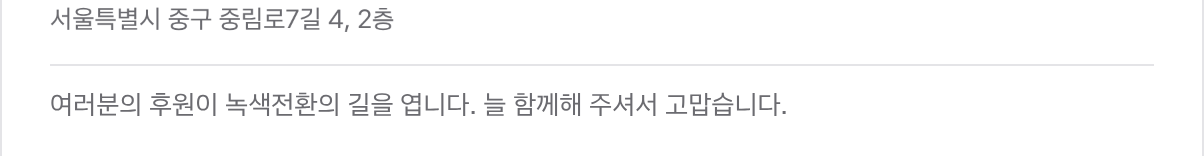
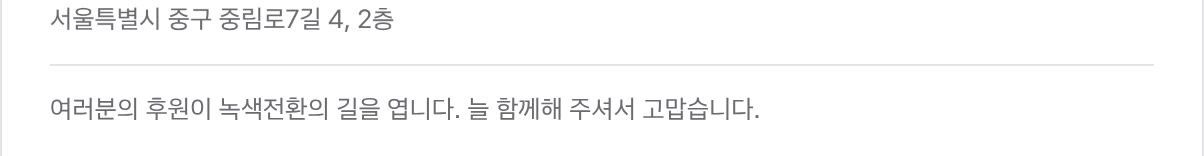
기관 메일 서명: 섹션 위 여백, 후원 감사 문구 크기·위치를 원래 문구와 맞춤
Claude-Session: https://claude.ai/code/session_01K576UY2xXgEjjuMEJ8cYE8

Changed region(s): [[0.0307, 0.5897, 0.6453, 0.7692]]

diff --git a/signature.html b/signature.html
@@ -7,7 +7,7 @@
 <title>메일 서명 · 녹색전환연구소</title>
 <link rel="preload" href="assets/AstaSans-UI.woff2" as="font" type="font/woff2" crossorigin>
 <link rel="stylesheet" href="css/style.css?v=20261112b">
-<link rel="stylesheet" href="css/sig.css?v=20261116a">
+<link rel="stylesheet" href="css/sig.css?v=20261116c">
 </head>
 <body>
 <a class="skip" href="#make">본문으로 건너뛰기</a>
@@ -242,6 +242,6 @@
 <script src="js/sig-render.js?v=20261112b"></script>
 <script src="js/sig-app.js?v=20261112f"></script>
 <script src="js/sig-org-def.js?v=20261116b"></script>
-<script src="js/sig-org.js?v=20261116b"></script>
+<script src="js/sig-org.js?v=20261116c"></script>
 </body>
 </html>

diff --git a/css/sig.css b/css/sig.css
@@ -34,7 +34,8 @@
 .faq summary::after { content: "+"; color: var(--muted); font-weight: 500; }
 .faq details[open] summary::after { content: "–"; }
 .faq p { margin: 0 0 18px; color: #45474d; line-height: 1.7; max-width: 860px; }
-#trouble { padding-top: 90px; }
+.band + .block { padding-top: 90px; }
+@media (max-width: 640px) { .band + .block { padding-top: 64px; } }
 #newbie { padding-top: 90px; }
 @media (max-width: 640px) { #newbie { padding-top: 64px; } }
 

diff --git a/js/sig-org.js b/js/sig-org.js
@@ -2,7 +2,7 @@
 (function (root) {
   const D = root.SigOrgDef || require('./sig-org-def.js');
   const SITE = 'https://minskapo.github.io/igt-namecard/';
-  const VER = '20261116b';
+  const VER = '20261116c';
   const W = 602, H = 267, TOP = 211, BOT = 249, R3 = [109, 133];
   const UTM = { source: 'signature', medium: 'email', campaign: 'email_signature' };
   const utm = (url, id, term) => url + (url.includes('?') ? '&' : '?') +
